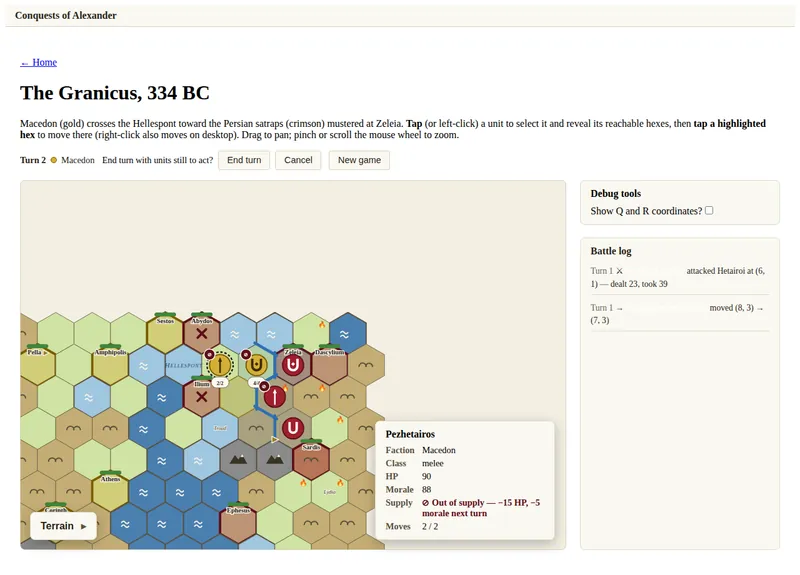
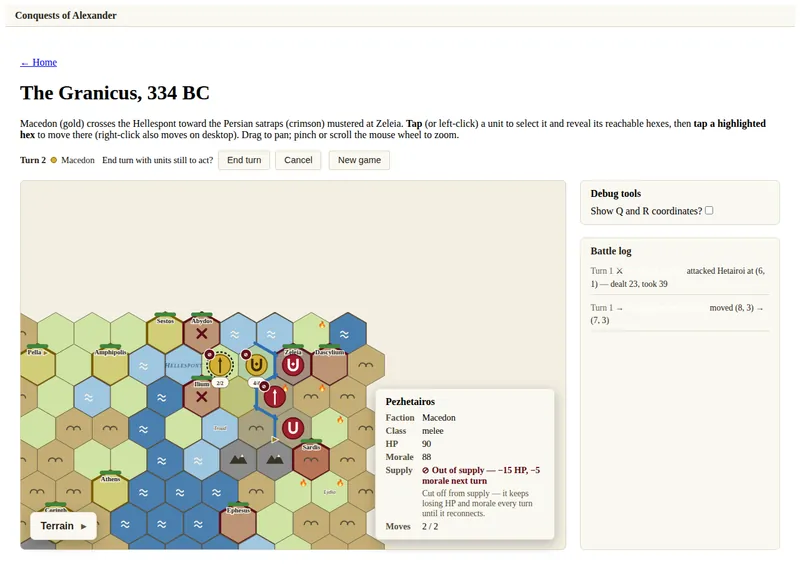
feat(ui): only surface the supply row when a unit is cut off
Per author feedback, the panel no longer shows a row for supplied units.
The Supply row appears only when a unit is out of supply, and adds a short
hint explaining that it keeps losing HP and morale until it reconnects.

Claude-Session: https://claude.ai/code/session_012ArR897Dfqwaxh4kzFoG1M

Changed region(s): [[0.4688, 0.68, 0.6875, 0.9165]]

diff --git a/src/components/board/InfoPanel.tsx b/src/components/board/InfoPanel.tsx
@@ -9,13 +9,19 @@ export interface MovesInfo {
   readonly max: number;
 }
 
-function SupplyValue({ unit }: { unit: Unit }) {
-  if (unit.supplied) return <>Supplied</>;
+function SupplyRow({ unit }: { unit: Unit }) {
+  if (unit.supplied) return null;
   const hpLoss = attritionRate((unit.outOfSupplyTurns ?? 0) + 1);
   return (
     <>
-      <span aria-hidden="true">⊘</span> Out of supply — −{hpLoss} HP, −{OUT_OF_SUPPLY_MORALE} morale
-      next turn
+      <dt>Supply</dt>
+      <dd className={styles.statOutOfSupply}>
+        <span aria-hidden="true">⊘</span> Out of supply — −{hpLoss} HP, −{OUT_OF_SUPPLY_MORALE}{" "}
+        morale next turn
+        <span className={styles.supplyHint}>
+          Cut off from supply — it keeps losing HP and morale every turn until it reconnects.
+        </span>
+      </dd>
     </>
   );
 }
@@ -41,10 +47,7 @@ export function InfoPanel({ unit, moves = null }: { unit: Unit | null; moves?: M
         <dd>{unit.hp}</dd>
         <dt>Morale</dt>
         <dd>{unit.morale}</dd>
-        <dt>Supply</dt>
-        <dd className={unit.supplied ? undefined : styles.statOutOfSupply}>
-          <SupplyValue unit={unit} />
-        </dd>
+        <SupplyRow unit={unit} />
         {moves !== null ? (
           <>
             <dt>Moves</dt>

diff --git a/src/components/board/InfoPanel.test.tsx b/src/components/board/InfoPanel.test.tsx
@@ -22,9 +22,9 @@ function panel() {
 }
 
 describe("InfoPanel supply", () => {
-  it("labels a supplied unit as Supplied", () => {
+  it("omits the supply row for a supplied unit", () => {
     render(<InfoPanel unit={BASE} />);
-    expect(panel().textContent).toContain("Supplied");
+    expect(panel().textContent).not.toContain("Supply");
   });
 
   it("does not warn about supply for a supplied unit", () => {
@@ -50,6 +50,11 @@ describe("InfoPanel supply", () => {
   it("shows the morale attrition for a cut-off unit", () => {
     render(<InfoPanel unit={{ ...BASE, supplied: false }} />);
     expect(panel().textContent).toContain("5 morale next turn");
+  });
+
+  it("explains what being out of supply does", () => {
+    render(<InfoPanel unit={{ ...BASE, supplied: false }} />);
+    expect(panel().textContent).toContain("until it reconnects");
   });
 
   it("surfaces supply for an enemy unit too", () => {

diff --git a/src/components/board/HexBoard.module.css b/src/components/board/HexBoard.module.css
@@ -346,6 +346,14 @@
   font-weight: 600;
 }
 
+.supplyHint {
+  display: block;
+  margin-top: var(--space-3xs);
+  font-weight: 400;
+  font-size: var(--font-size-ui-sm);
+  color: var(--color-ink-muted);
+}
+
 .sidebar {
   flex: 1 1 220px;
   max-width: 320px;

diff --git a/docs/assets/2026-06-21-pr-0215-unit-panel-supply-status/index.html b/docs/assets/2026-06-21-pr-0215-unit-panel-supply-status/index.html
@@ -9,7 +9,7 @@
 <body>
 <h1>unit panel supply status</h1>
 <p class="meta">2026-06-21<a href="https://github.com/oreoshake-s-team/BrowCivVI/pull/215">Pull request #215</a></p>
-<div class="grid"><figure><a class="thumb" href="#shot-1"><img src="./unit-panel-out-of-supply.webp" alt="unit-panel-out-of-supply.webp"></a><figcaption>unit-panel-out-of-supply.webp</figcaption></figure><figure><a class="thumb" href="#shot-2"><img src="./unit-panel-supplied.webp" alt="unit-panel-supplied.webp"></a><figcaption>unit-panel-supplied.webp</figcaption></figure></div>
-<a class="lightbox" id="shot-1" href="#"><img src="./unit-panel-out-of-supply.webp" alt="unit-panel-out-of-supply.webp"></a><a class="lightbox" id="shot-2" href="#"><img src="./unit-panel-supplied.webp" alt="unit-panel-supplied.webp"></a>
+<div class="grid"><figure><a class="thumb" href="#shot-1"><img src="./unit-panel-out-of-supply.webp" alt="unit-panel-out-of-supply.webp"></a><figcaption>unit-panel-out-of-supply.webp</figcaption></figure></div>
+<a class="lightbox" id="shot-1" href="#"><img src="./unit-panel-out-of-supply.webp" alt="unit-panel-out-of-supply.webp"></a>
 </body>
 </html>

diff --git a/e2e/supply-panel.spec.ts b/e2e/supply-panel.spec.ts
@@ -27,10 +27,10 @@ test("unit panel surfaces supply status, including a cut-off unit", async ({ pag
   const panel = page.getByRole("region", { name: "Selected unit" });
 
   await suppliedUnit(page).click();
-  await expect(panel).toContainText("Supplied");
-  await captureScreenshot(page, "unit-panel-supplied");
+  await expect(panel).not.toContainText("Out of supply");
 
   await cutOffUnit(page).click();
   await expect(panel).toContainText("Out of supply");
+  await expect(panel).toContainText("until it reconnects");
   await captureScreenshot(page, "unit-panel-out-of-supply");
 });